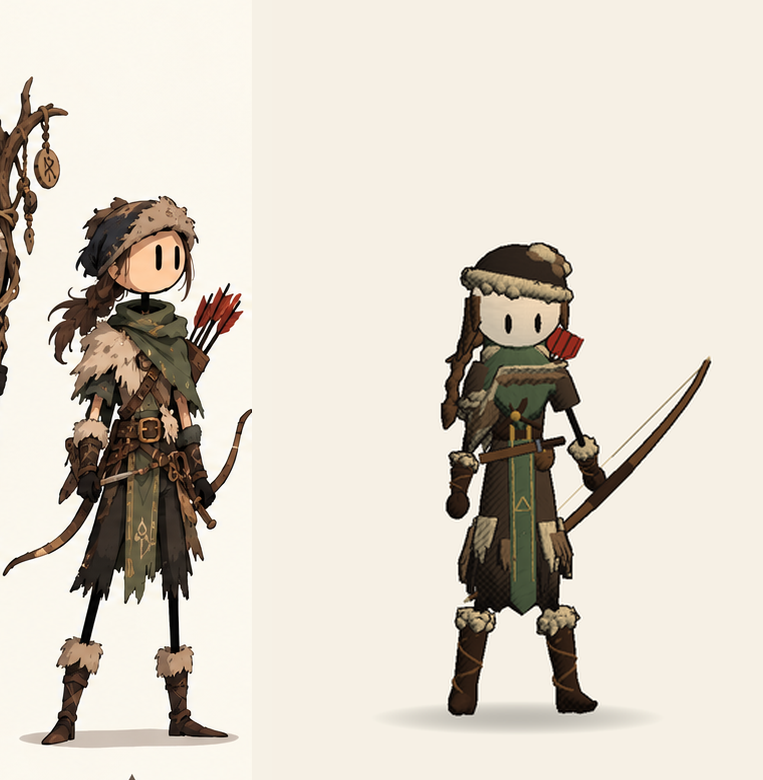
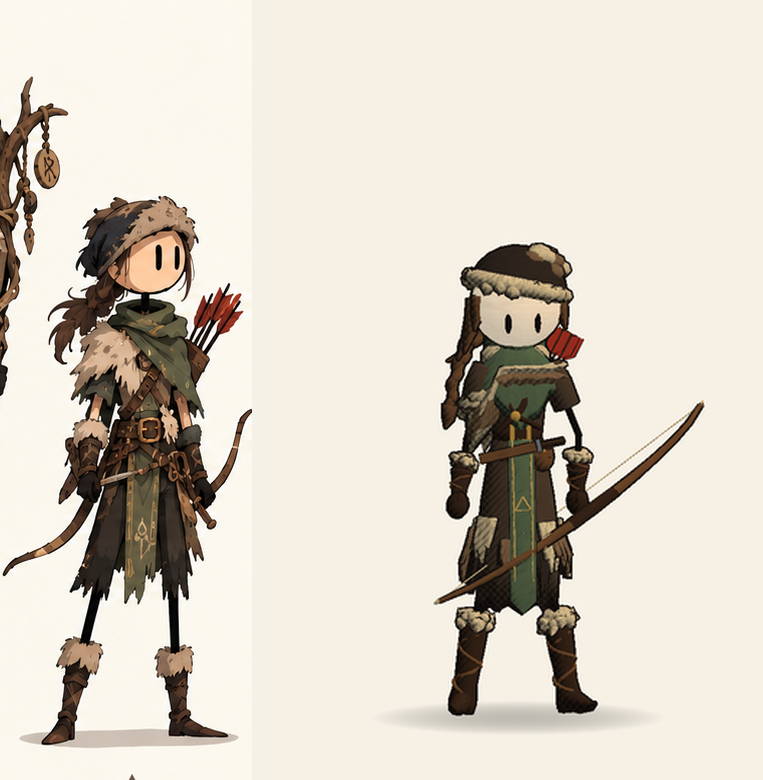
Scout pass 6: bow held low, sweeping down behind the legs
In the lineup the Scout holds the bow low at the hip, its lower limb
sweeping down across the legs to the other side, as in the concept art.

Claude-Session: https://claude.ai/code/session_01SCdejJ1UF8RUxAkkFhZXGU

Changed region(s): [[0.6933, 0.4615, 0.9345, 0.7077], [0.5727, 0.7077, 0.6933, 0.7692]]

diff --git a/tools/preview/HeroPreview.cs b/tools/preview/HeroPreview.cs
@@ -138,10 +138,10 @@ public static class HeroPreview
         var ready = new Pose();
         Vector3 scl = new Vector3(-scFit.shoulderX, scFit.shoulderY, 0f);
         Vector3 sclElbow = scl + new Vector3(-0.08f, -0.2f, 0.0f).normalized * scFit.upperArm;
-        Vector3 sclFist = new Vector3(-scFit.shoulderX - 0.1f, scFit.waist - 0.06f, -0.04f);
+        Vector3 sclFist = new Vector3(-scFit.shoulderX - 0.08f, scFit.waist - 0.14f, -0.02f);
         ready.worldRot[Joints.LeftArm] = Quaternion.FromToRotation(Vector3.down, sclElbow - scl);
         ready.worldRot[Joints.LeftForearm] = Quaternion.FromToRotation(Vector3.down, sclFist - sclElbow);
-        ready.worldRot[Joints.OffHand] = Quaternion.LookRotation(new Vector3(-0.72f, 0.62f, -0.3f), new Vector3(-0.3f, -0.1f, 1f));
+        ready.worldRot[Joints.OffHand] = Quaternion.LookRotation(new Vector3(-0.8f, 0.5f, -0.35f), new Vector3(-0.3f, -0.1f, 1f));
         ready.rot[Joints.RightArm] = Quaternion.Euler(4f, 0f, 12f);
         ready.rot[Joints.RightForearm] = Quaternion.Euler(-25f, 0f, 0f);
         ready.rot[Joints.LeftLeg] = Quaternion.Euler(0f, -16f, -9f);
